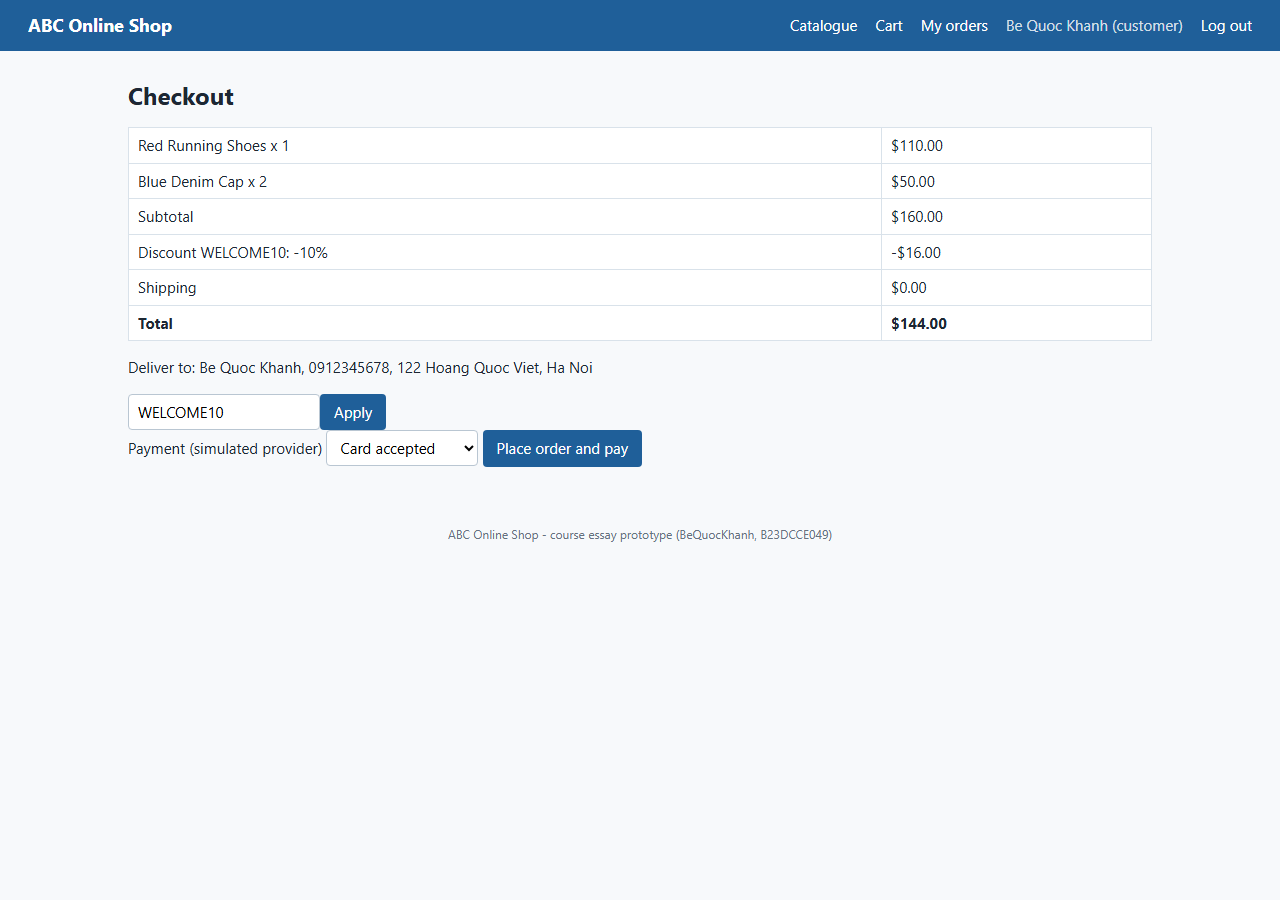
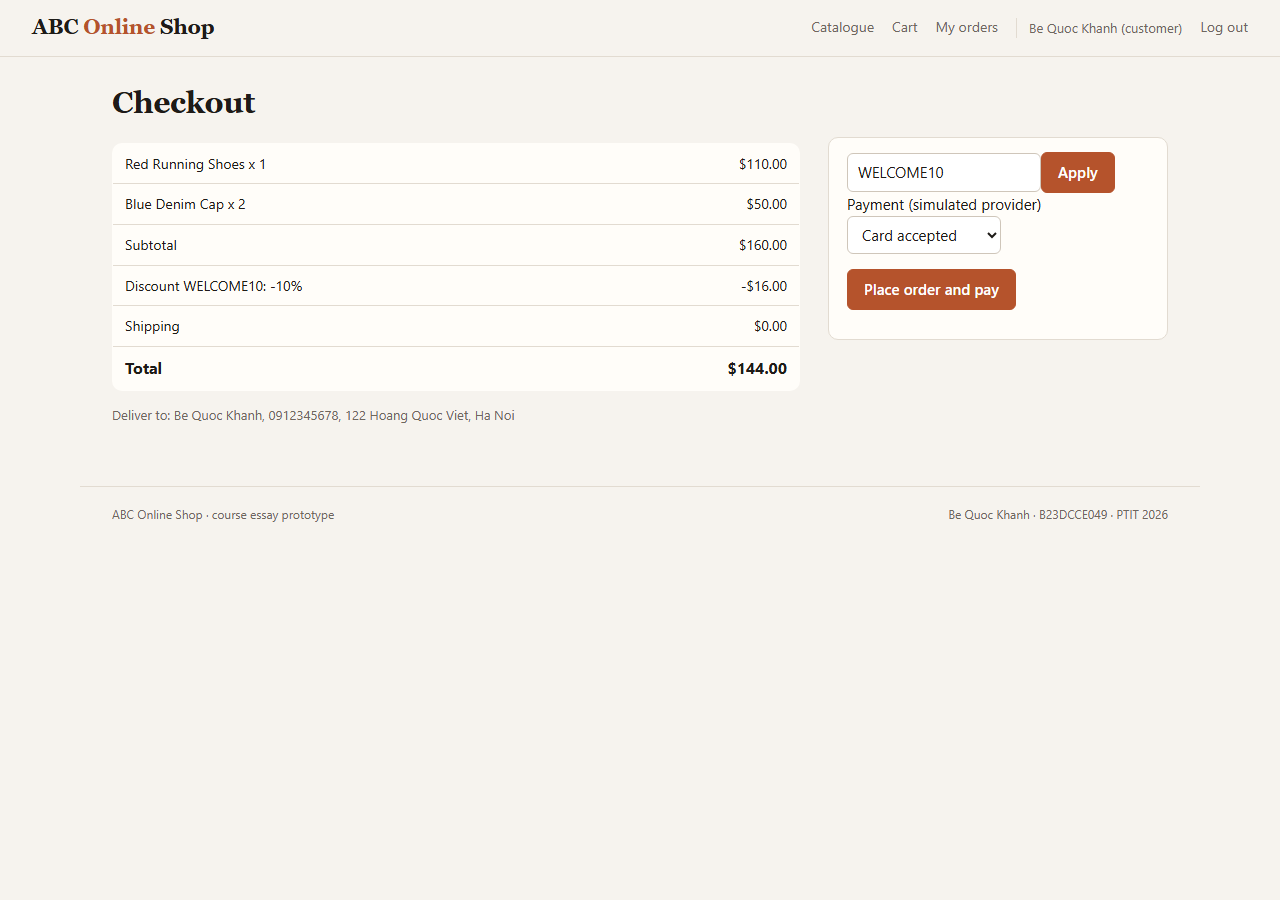
Redesign the shop pages and retake the screenshots

diff --git a/tools/screens.py b/tools/screens.py
@@ -1,0 +1,67 @@
+"""Capture screenshots of the running web app (server on :8765) with headless Edge."""
+import http.cookiejar
+import os
+import subprocess
+import urllib.parse
+import urllib.request
+
+BASE = "http://127.0.0.1:8765"
+OUT = os.path.join(os.path.dirname(os.path.abspath(__file__)), "..", "demo_results")
+TMP = os.environ.get("TEMP", os.path.dirname(os.path.abspath(__file__)))
+EDGE = r"C:\Program Files (x86)\Microsoft\Edge\Application\msedge.exe"
+
+
+def session():
+    jar = http.cookiejar.CookieJar()
+    return urllib.request.build_opener(urllib.request.HTTPCookieProcessor(jar))
+
+
+def fetch(opener, path, data=None):
+    body = urllib.parse.urlencode(data).encode() if data else None
+    return opener.open(BASE + path, body).read().decode()
+
+
+def shot(html, name, height=1100):
+    html = html.replace('href="/static/', f'href="{BASE}/static/').replace('src="/', f'src="{BASE}/')
+    path = os.path.join(TMP, name + ".html")
+    with open(path, "w", encoding="utf-8") as f:
+        f.write(html)
+    png = os.path.abspath(os.path.join(OUT, name + ".png"))
+    subprocess.run([EDGE, "--headless=new", "--disable-gpu", "--hide-scrollbars",
+                    f"--window-size=1280,{height}", f"--screenshot={png}",
+                    "file:///" + path.replace("\\", "/")], check=True, capture_output=True, timeout=60)
+    os.remove(path)
+    print("saved", png)
+
+
+def main():
+    guest = session()
+    shot(fetch(guest, "/"), "web_01_catalogue", 1250)
+    shot(fetch(guest, "/search?q=find+nike+sneakers+under+100+dollars&mode=voice"), "web_02_search_voice", 900)
+    shot(fetch(guest, "/product/P01"), "web_03_product_ai", 1450)
+    shot(fetch(guest, "/product/P16"), "web_03b_product_bag", 1250)
+
+    khanh = session()
+    fetch(khanh, "/login", {"email": "khanh@example.com", "password": "khanh2026"})
+    fetch(khanh, "/cart/add", {"product_id": "P12", "qty": "1"})
+    fetch(khanh, "/cart/add", {"product_id": "P09", "qty": "2"})
+    shot(fetch(khanh, "/checkout?promo=WELCOME10"), "web_04_checkout", 900)
+    shot(fetch(khanh, "/orders/O001"), "web_05_track_order", 1100)
+    shot(fetch(khanh, "/search?q=where+is+my+latest+order"), "web_06_order_question", 650)
+
+    sales = session()
+    fetch(sales, "/login", {"email": "sales@abc.vn", "password": "sales2026"})
+    shot(fetch(sales, "/staff/orders"), "web_07_process_orders", 700)
+    wh = session()
+    fetch(wh, "/login", {"email": "warehouse@abc.vn", "password": "stock2026"})
+    shot(fetch(wh, "/staff/inventory"), "web_08_inventory", 1050)
+    admin = session()
+    fetch(admin, "/login", {"email": "admin@abc.vn", "password": "admin2026"})
+    shot(fetch(admin, "/admin/reviews"), "web_09_moderation", 500)
+    manager = session()
+    fetch(manager, "/login", {"email": "manager@abc.vn", "password": "report2026"})
+    shot(fetch(manager, "/reports"), "web_10_dashboard", 1250)
+
+
+if __name__ == "__main__":
+    main()
